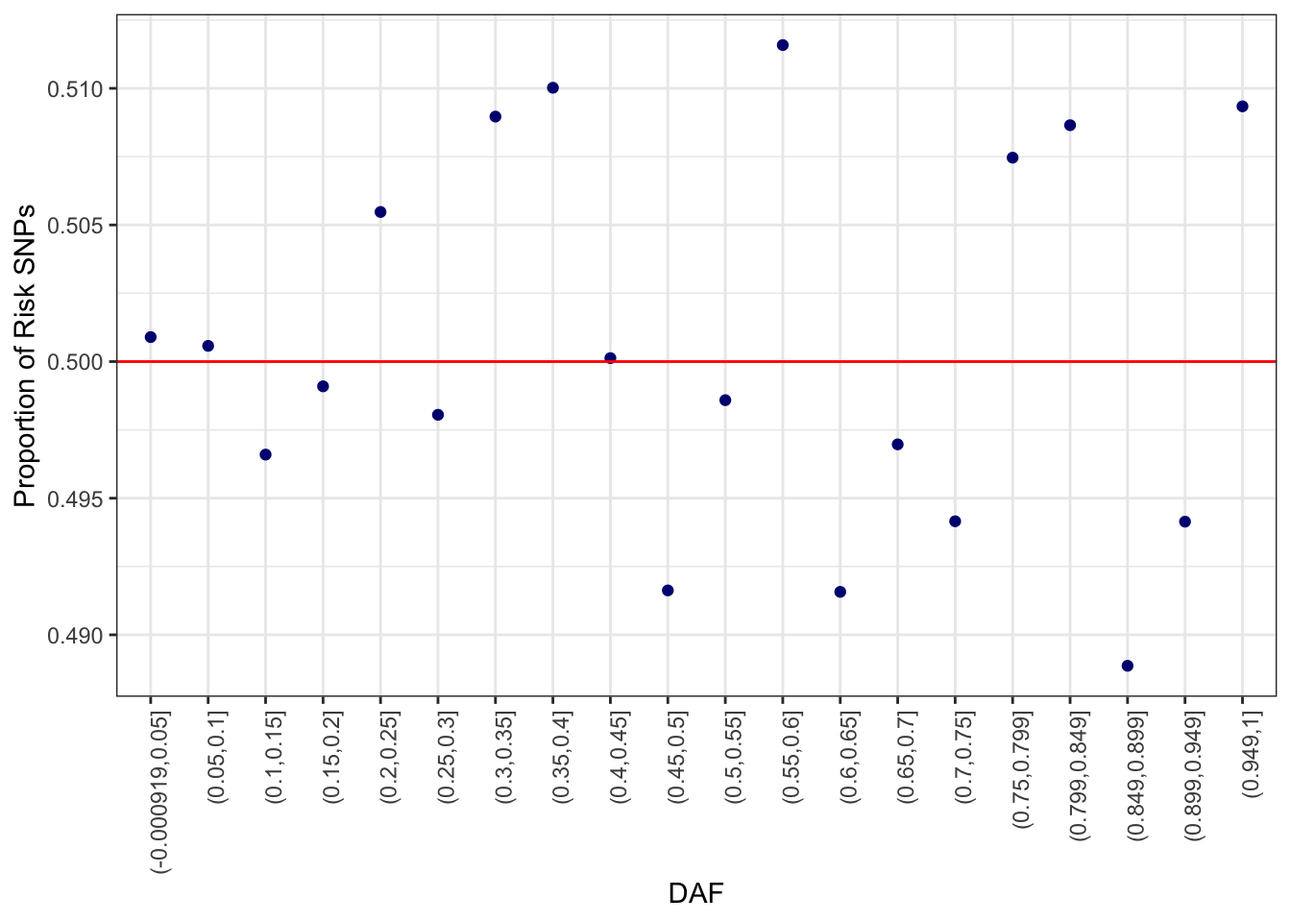
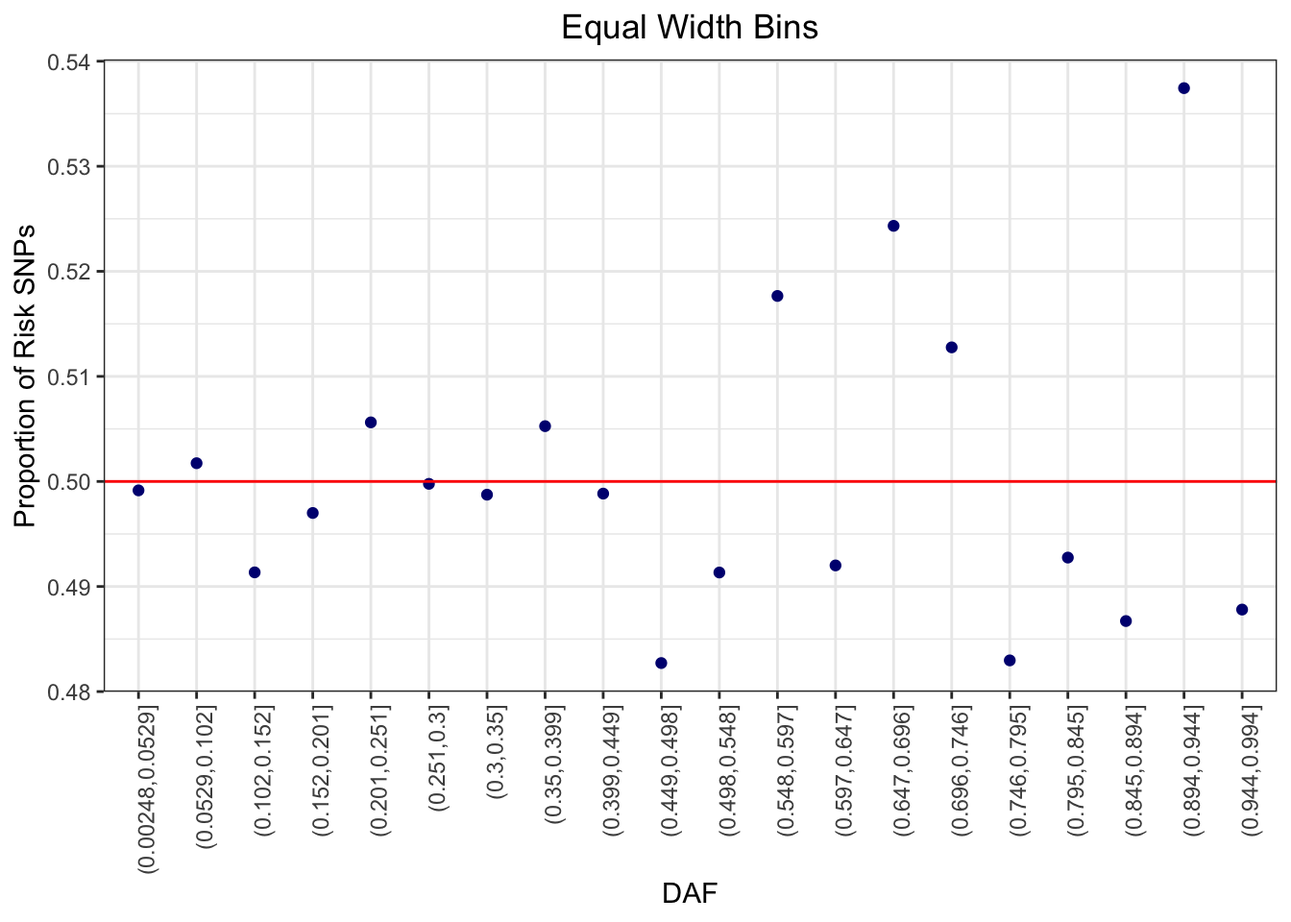
Build site.

diff --git a/docs/shift_GWAS_ATLAS.html b/docs/shift_GWAS_ATLAS.html
@@ -411,7 +411,7 @@ div.section {
 <div class="tab-content">
 <div id="summary" class="tab-pane fade in active">
 <p>
-<strong>Last updated:</strong> 2020-03-17
+<strong>Last updated:</strong> 2020-03-24
 </p>
 <p>
 <strong>Checks:</strong> <span class="glyphicon glyphicon-ok text-success" aria-hidden="true"></span> 7 <span class="glyphicon glyphicon-exclamation-sign text-danger" aria-hidden="true"></span> 0
@@ -502,10 +502,10 @@ This reproducible <a href="http://rmarkdown.rstudio.com">R Markdown</a> analysis
 <div class="panel panel-default">
 <div class="panel-heading">
 <p class="panel-title">
-<a data-toggle="collapse" data-parent="#workflowr-checks" href="#strongRepositoryversionstrongahrefhttpsgithubcomjgblancinfermutationalbiastreee35f16114a4fee2d37bf931b090435754f4fdc82targetblanke35f161a"> <span class="glyphicon glyphicon-ok text-success" aria-hidden="true"></span> <strong>Repository version:</strong> <a href="https://github.com/jgblanc/infer_mutational_bias/tree/e35f16114a4fee2d37bf931b090435754f4fdc82" target="_blank">e35f161</a> </a>
+<a data-toggle="collapse" data-parent="#workflowr-checks" href="#strongRepositoryversionstrongahrefhttpsgithubcomjgblancinfermutationalbiastree18252e2939632b33e31cedbcc25ab5b1fef27020targetblank18252e2a"> <span class="glyphicon glyphicon-ok text-success" aria-hidden="true"></span> <strong>Repository version:</strong> <a href="https://github.com/jgblanc/infer_mutational_bias/tree/18252e2939632b33e31cedbcc25ab5b1fef27020" target="_blank">18252e2</a> </a>
 </p>
 </div>
[2 lines of base64/hex data omitted]
 <div class="panel-body">
 <p>
 Great! You are using Git for version control. Tracking code development and connecting the code version to the results is critical for reproducibility. The version displayed above was the version of the Git repository at the time these results were generated. <br><br> Note that you need to be careful to ensure that all relevant files for the analysis have been committed to Git prior to generating the results (you can use <code>wflow_publish</code> or <code>wflow_git_commit</code>). workflowr only checks the R Markdown file, but you know if there are other scripts or data files that it depends on. Below is the status of the Git repository when the results were generated:
@@ -523,9 +523,11 @@ Ignored files:
     Ignored:    analysis/.DS_Store
     Ignored:    code/.DS_Store
     Ignored:    code/parse_gwas_atlas/.DS_Store
+    Ignored:    code/parse_gwas_atlas_nonsig/.DS_Store
     Ignored:    data/.ipynb_checkpoints/
     Ignored:    data/1000G_20101123_v3_GIANT_chr1_23_minimacnamesifnotRS_CEU_MAF0.01/
     Ignored:    data/47UKBB/
+    Ignored:    data/ALL.chr1.phase3_shapeit2_mvncall_integrated_v5a.20130502.genotypes.EUR/
     Ignored:    data/BBJ/
     Ignored:    data/GWAS_ATLAS/
     Ignored:    data/STRAT/
@@ -534,43 +536,53 @@ Ignored files:
     Ignored:    output/47UKBB/
     Ignored:    output/BBJ/.DS_Store
     Ignored:    output/GWAS_ATLAS/
+    Ignored:    output/STRAT/
     Ignored:    output/UKBB/.DS_Store
 
 Untracked files:
-    Untracked:  .snakemake/log/2020-03-11T114908.022208.snakemake.log
-    Untracked:  .snakemake/log/2020-03-11T115004.543749.snakemake.log
-    Untracked:  .snakemake/log/2020-03-11T115045.014259.snakemake.log
-    Untracked:  .snakemake/log/2020-03-11T115120.836023.snakemake.log
-    Untracked:  .snakemake/log/2020-03-11T123057.230731.snakemake.log
-    Untracked:  .snakemake/log/2020-03-11T124622.063261.snakemake.log
-    Untracked:  .snakemake/log/2020-03-11T124715.183775.snakemake.log
-    Untracked:  .snakemake/log/2020-03-11T151827.557487.snakemake.log
-    Untracked:  .snakemake/log/2020-03-11T152044.800420.snakemake.log
-    Untracked:  .snakemake/log/2020-03-11T171932.515213.snakemake.log
-    Untracked:  .snakemake/log/2020-03-12T102256.287616.snakemake.log
-    Untracked:  .snakemake/log/2020-03-12T152017.563261.snakemake.log
-    Untracked:  .snakemake/log/2020-03-12T154242.122029.snakemake.log
-    Untracked:  .snakemake/log/2020-03-13T095001.578641.snakemake.log
-    Untracked:  .snakemake/log/2020-03-13T095007.398442.snakemake.log
-    Untracked:  .snakemake/log/2020-03-13T095013.107325.snakemake.log
-    Untracked:  .snakemake/log/2020-03-16T164823.352425.snakemake.log
-    Untracked:  .snakemake/log/2020-03-17T110740.420893.snakemake.log
-    Untracked:  .snakemake/log/2020-03-17T110744.101921.snakemake.log
-    Untracked:  .snakemake/log/2020-03-17T110825.308345.snakemake.log
-    Untracked:  .snakemake/metadata/b3V0cHV0L0dXQVNfQVRMQVMvZXZvX2FkZGVkL0NBRF8zOTI1XzAuOTVfZXZvLnR4dA==
-    Untracked:  .snakemake/metadata/b3V0cHV0L0dXQVNfQVRMQVMvZXZvX2FkZGVkL1QyRF80MDg1XzAuOTVfZXZvLnR4dA==
-    Untracked:  .snakemake/metadata/b3V0cHV0L0dXQVNfQVRMQVMvZXZvX2FkZGVkL1VDXzIwMzBfMC45NV9ldm8udHh0
-    Untracked:  .snakemake/metadata/b3V0cHV0L0dXQVNfQVRMQVMvZXZvX2FkZGVkL3NjaGl6b3BocmVuaWFfMzk4Ml8wLjk1X2V2by50eHQ=
-    Untracked:  .snakemake/metadata/b3V0cHV0L0dXQVNfQVRMQVMvcGFyc2VkX2d3YXMvQ0FEXzM5MjVfMC45NV9wYXJzZWQudHh0
-    Untracked:  .snakemake/metadata/b3V0cHV0L0dXQVNfQVRMQVMvcGFyc2VkX2d3YXMvVDJEXzQwODVfMC45NV9wYXJzZWQudHh0
-    Untracked:  .snakemake/metadata/b3V0cHV0L0dXQVNfQVRMQVMvcGFyc2VkX2d3YXMvVUNfMjAzMF8wLjk1X3BhcnNlZC50eHQ=
-    Untracked:  .snakemake/metadata/b3V0cHV0L0dXQVNfQVRMQVMvcGFyc2VkX2d3YXMvc2NoaXpvcGhyZW5pYV8zOTgyXzAuOTVfcGFyc2VkLnR4dA==
-    Untracked:  .snakemake/scripts/tmpbo7_6d_1.get_evolutionary_information_from_1kg_GWAS_ATLAS.py
-    Untracked:  code/parse_gwas_atlas_nonsig/
+    Untracked:  .snakemake/log/2020-03-23T164719.122778.snakemake.log
+    Untracked:  .snakemake/log/2020-03-23T164841.172341.snakemake.log
+    Untracked:  .snakemake/log/2020-03-23T165052.235224.snakemake.log
+    Untracked:  .snakemake/log/2020-03-23T173201.671245.snakemake.log
+    Untracked:  .snakemake/log/2020-03-23T190924.512591.snakemake.log
+    Untracked:  .snakemake/log/2020-03-23T194341.864454.snakemake.log
+    Untracked:  .snakemake/log/2020-03-24T091905.302205.snakemake.log
+    Untracked:  .snakemake/log/2020-03-24T092201.882781.snakemake.log
+    Untracked:  .snakemake/log/2020-03-24T092404.171989.snakemake.log
+    Untracked:  .snakemake/log/2020-03-24T092428.802361.snakemake.log
+    Untracked:  .snakemake/log/2020-03-24T093017.568005.snakemake.log
+    Untracked:  .snakemake/log/2020-03-24T093241.050903.snakemake.log
+    Untracked:  .snakemake/log/2020-03-24T093254.384314.snakemake.log
+    Untracked:  .snakemake/log/2020-03-24T093258.136407.snakemake.log
+    Untracked:  .snakemake/log/2020-03-24T093449.542770.snakemake.log
+    Untracked:  .snakemake/log/2020-03-24T111104.620227.snakemake.log
+    Untracked:  .snakemake/log/2020-03-24T111633.863041.snakemake.log
+    Untracked:  .snakemake/log/2020-03-24T111701.823844.snakemake.log
+    Untracked:  .snakemake/metadata/b3V0cHV0L0dXQVNfQVRMQVMvZXZvX2FkZGVkL0NBRF8zOTI1LTAuMDAwMV9ldm8udHh0
+    Untracked:  .snakemake/metadata/b3V0cHV0L0dXQVNfQVRMQVMvZXZvX2FkZGVkL1QyRF80MDg1LTAuMDAwMV9ldm8udHh0
+    Untracked:  .snakemake/metadata/b3V0cHV0L0dXQVNfQVRMQVMvZXZvX2FkZGVkL1VDXzIwMzAtMC4wMDAxX2V2by50eHQ=
+    Untracked:  .snakemake/metadata/b3V0cHV0L0dXQVNfQVRMQVMvZXZvX2FkZGVkL2hlaWdodF8xNDItMC4wMDAxX2V2by50eHQ=
+    Untracked:  .snakemake/metadata/b3V0cHV0L0dXQVNfQVRMQVMvZXZvX2FkZGVkL3NjaGl6b3BocmVuaWFfMzk4Mi0wLjAwMDFfZXZvLnR4dA==
+    Untracked:  .snakemake/metadata/b3V0cHV0L0dXQVNfQVRMQVMvcGFyc2VkX2d3YXMvQ0FEXzM5MjVfMC4wMDAxX3BhcnNlZC50eHQ=
+    Untracked:  .snakemake/metadata/b3V0cHV0L0dXQVNfQVRMQVMvcGFyc2VkX2d3YXMvVDJEXzQwODVfMC4wMDAxX3BhcnNlZC50eHQ=
+    Untracked:  .snakemake/metadata/b3V0cHV0L0dXQVNfQVRMQVMvcGFyc2VkX2d3YXMvVUNfMjAzMF8wLjAwMDFfcGFyc2VkLnR4dA==
+    Untracked:  .snakemake/metadata/b3V0cHV0L0dXQVNfQVRMQVMvcGFyc2VkX2d3YXMvaGVpZ2h0XzE0Ml8wLjAwMDFfcGFyc2VkLnR4dA==
+    Untracked:  .snakemake/metadata/b3V0cHV0L0dXQVNfQVRMQVMvcGFyc2VkX2d3YXMvc2NoaXpvcGhyZW5pYV8zOTgyXzAuMDAwMV9wYXJzZWQudHh0
+    Untracked:  .snakemake/metadata/b3V0cHV0L0dXQVNfQVRMQVMvcHJ1bmVkL0NBRF8zOTI1XzAuMDAwMS5wcnVuZS5pbg==
+    Untracked:  .snakemake/metadata/b3V0cHV0L0dXQVNfQVRMQVMvcHJ1bmVkL1QyRF80MDg1XzAuMDAwMS5wcnVuZS5pbg==
+    Untracked:  .snakemake/metadata/b3V0cHV0L0dXQVNfQVRMQVMvcHJ1bmVkL1VDXzIwMzBfMC4wMDAxLnBydW5lLmlu
+    Untracked:  .snakemake/metadata/b3V0cHV0L0dXQVNfQVRMQVMvcHJ1bmVkL2hlaWdodF8xNDJfMC4wMDAxLnBydW5lLmlu
+    Untracked:  .snakemake/metadata/b3V0cHV0L0dXQVNfQVRMQVMvcHJ1bmVkL3NjaGl6b3BocmVuaWFfMzk4Ml8wLjAwMDEucHJ1bmUuaW4=
+    Untracked:  .snakemake/scripts/tmp7997be50.get_evolutionary_information_from_1kg_GWAS_ATLAS.py
+    Untracked:  code/parse_gwas_atlas_nonsig/height_142.R
+    Untracked:  code/rsID_Pos_conversion.py
+    Untracked:  code/rsID_Pos_conversion.py~
 
 Unstaged changes:
-    Modified:   analysis/Stratification.Rmd
-    Modified:   code/parse_gwas_atlas/schizophrenia_3982.R
+    Modified:   code/parse_gwas_atlas_nonsig/CAD_3925.R
+    Modified:   code/parse_gwas_atlas_nonsig/T2D_4085.R
+    Modified:   code/parse_gwas_atlas_nonsig/UC_2030.R
+    Modified:   code/parse_gwas_atlas_nonsig/schizophrenia_3982.R
     Modified:   snakefile
     Modified:   snakefile~
 
@@ -611,6 +623,57 @@ Message
 </tr>
 </thead>
 <tbody>
+<tr>
+<td>
+Rmd
+</td>
+<td>
+<a href="https://github.com/jgblanc/infer_mutational_bias/blob/18252e2939632b33e31cedbcc25ab5b1fef27020/analysis/shift_GWAS_ATLAS.Rmd" target="_blank">18252e2</a>
+</td>
+<td>
+jgblanc
+</td>
+<td>
+2020-03-24
+</td>
+<td>
+added GIANT
+</td>
+</tr>
+<tr>
+<td>
+Rmd
+</td>
+<td>
+<a href="https://github.com/jgblanc/infer_mutational_bias/blob/d6eca3fee20c42293173e5f0b30cd65ee6f2b126/analysis/shift_GWAS_ATLAS.Rmd" target="_blank">d6eca3f</a>
+</td>
+<td>
+jgblanc
+</td>
+<td>
+2020-03-23
+</td>
+<td>
+added LD pruning
+</td>
+</tr>
+<tr>
+<td>
+html
+</td>
+<td>
+<a href="https://rawcdn.githack.com/jgblanc/infer_mutational_bias/9f469922912eddda8397953f696521887190e2c7/docs/shift_GWAS_ATLAS.html" target="_blank">9f46992</a>
+</td>
+<td>
+jgblanc
+</td>
+<td>
+2020-03-17
+</td>
+<td>
+Build site.
+</td>
+</tr>
 <tr>
 <td>
 Rmd
@@ -686,18 +749,22 @@ looked for shift
 </div>
 </div>
 </div>
-<p>Model with no PC adjustment:</p>
-<p><span class="math display">\[E[\hat{\beta}] = \beta_l + \beta_E cov(\vec{E}, \vec{g})\]</span></p>
-<p>Model with using residuls after regressing out first PC and <span class="math inline">\(\vec{U_1} = \vec{E}\)</span>:</p>
-<p><span class="math display">\[E[\beta_l] = \beta_l(1 - r^2(g_l,\vec{U_1}))\]</span></p>
-<p>Schizophrenia</p>
-<pre class="r"><code>schizophrenia &lt;- fread(&quot;../output/GWAS_ATLAS/evo_added/schizophrenia_3982_0.95_evo.txt&quot;)
+<p>Truth: <span class="math display">\[\vec{Y} = \mu + \beta_l\vec{g_l} + \beta_E\vec{E} + \vec{e}, \space \space \space \vec{e} \sim N(0, V_E)\]</span></p>
+<p>Model with no PC adjustment: <span class="math display">\[\vec{Y} = \mu + \beta_l\vec{g_l} + \vec{e}\]</span></p>
+<p>Expected <span class="math inline">\(\hat{\beta}\)</span>: <span class="math display">\[E[\hat{\beta}] = \beta_l + \beta_E cov(\vec{E}, \vec{g})\]</span></p>
+<p>Model including PC1: <span class="math display">\[\vec{Y} = \mu + \beta_l\vec{g_l} + \beta_{\vec{U_1}}\vec{U_1}+ \vec{e}\]</span></p>
+<p>Expected <span class="math inline">\(\hat{\beta}\)</span> assuming that <span class="math inline">\(\vec{U_1} = \vec{E}\)</span>: <span class="math display">\[E[\beta_l] = \beta_l(1 - r^2(g_l,\vec{U_1}))\]</span></p>
+<div id="schizophrenia" class="section level3">
+<h3>Schizophrenia</h3>
+<pre class="r"><code>schizophrenia &lt;- fread(&quot;../output/GWAS_ATLAS/evo_added/schizophrenia_3982-0.0001_evo.txt&quot;)
 colnames(schizophrenia) &lt;- c(colnames(schizophrenia)[1:13], &quot;EA_Derived&quot;, &quot;DAF&quot;, &quot;Risk_Derived&quot;)
+pruned &lt;- fread(&quot;../output/GWAS_ATLAS/pruned/schizophrenia_3982_0.0001.prune.in&quot;, header = F)
+schizophrenia &lt;- left_join(pruned, schizophrenia, by = c(&quot;V1&quot; = &quot;SNP&quot;))
 
-dat &lt;- schizophrenia %&gt;% select(DAF, Risk_Derived, OR) %&gt;% na.omit() %&gt;% filter(abs(log(OR)) &lt;= 0.0005)
+dat &lt;- schizophrenia %&gt;% select(DAF, Risk_Derived, OR) %&gt;% na.omit() 
 dat$bin &lt;- cut(dat$DAF, 20)
 df &lt;- dat %&gt;% group_by(bin) %&gt;%summarise(num_snps = n(),prop_risk = (sum(Risk_Derived == &#39;T&#39;)/n()))
-ggplot(df, aes(x=bin, y=prop_risk)) + geom_point(col = &quot;navy&quot;) + geom_hline(yintercept = 0.5, col = &quot;red&quot;) + theme_bw() + xlab(&quot;DAF&quot;) + ylab(&quot;Proportion of Risk SNPs&quot;) + theme(axis.text.x = element_text(angle = 90, hjust = 1))</code></pre>
+ggplot(df, aes(x=bin, y=prop_risk)) + geom_point(col = &quot;navy&quot;) + geom_hline(yintercept = 0.5, col = &quot;red&quot;) + theme_bw() + xlab(&quot;DAF&quot;) + ylab(&quot;Proportion of Risk SNPs&quot;) + theme(axis.text.x = element_text(angle = 90, hjust = 1)) + ggtitle(&quot;Equal Width Bins&quot;) + theme(plot.title = element_text(hjust = 0.5))</code></pre>
 <p><img src="figure/shift_GWAS_ATLAS.Rmd/unnamed-chunk-1-1.png" width="672" style="display: block; margin: auto;" /></p>
 <p>
 <button type="button" class="btn btn-default btn-xs btn-workflowr btn-workflowr-fig" data-toggle="collapse" data-target="#fig-unnamed-chunk-1-1">
@@ -736,16 +803,26 @@ jgblanc
 </table>
 </div>
 </div>
-<pre class="r"><code>sum(dat$Risk_Derived == &quot;T&quot;)/sum(dat$Risk_Derived == &quot;T&quot; | dat$Risk_Derived == &quot;F&quot;)</code></pre>
-<pre><code>[1] 0.4898226</code></pre>
-<p>CAD</p>
-<pre class="r"><code>CAD &lt;- fread(&quot;../output/GWAS_ATLAS/evo_added/CAD_3925_0.95_evo.txt&quot;)
+<pre class="r"><code>dat2 &lt;- schizophrenia %&gt;% select(DAF, Risk_Derived, OR) %&gt;% na.omit() 
+dat2$bin &lt;- cut2(dat$DAF, m=nrow(dat2)/20)
+df2 &lt;- dat2 %&gt;% group_by(bin) %&gt;%summarise(num_snps = n(),prop_risk = (sum(Risk_Derived == &#39;T&#39;)/n()))
+ggplot(df2, aes(x=bin, y=prop_risk)) + geom_point(col = &quot;navy&quot;) + geom_hline(yintercept = 0.5, col = &quot;red&quot;) + theme_bw() + xlab(&quot;DAF&quot;) + ylab(&quot;Proportion of Risk SNPs&quot;) + theme(axis.text.x = element_text(angle = 90, hjust = 1)) + ggtitle(&quot;Equal Number of SNPs per Bins&quot;) + theme(plot.title = element_text(hjust = 0.5))</code></pre>
+<p><img src="figure/shift_GWAS_ATLAS.Rmd/unnamed-chunk-1-2.png" width="672" style="display: block; margin: auto;" /></p>
+<pre class="r"><code># Totol Fraction of Risk Derived SNPs 
+sum(dat$Risk_Derived == &quot;T&quot;)/sum(dat$Risk_Derived == &quot;T&quot; | dat$Risk_Derived == &quot;F&quot;)</code></pre>
+<pre><code>[1] 0.4547076</code></pre>
+</div>
+<div id="cad" class="section level3">
+<h3>CAD</h3>
+<pre class="r"><code>CAD &lt;- fread(&quot;../output/GWAS_ATLAS/evo_added/CAD_3925-0.0001_evo.txt&quot;)
 colnames(CAD) &lt;- c(colnames(CAD)[1:13], &quot;EA_Derived&quot;, &quot;DAF&quot;, &quot;Risk_Derived&quot;)
+pruned &lt;- fread(&quot;../output/GWAS_ATLAS/pruned/CAD_3925_0.0001.prune.in&quot;, header = F)
+CAD &lt;- left_join(pruned, CAD, by = c(&quot;V1&quot; = &quot;SNP&quot;))
 
-dat &lt;- CAD %&gt;% select(DAF, Risk_Derived, `Log(OR)`) %&gt;% na.omit() %&gt;% filter(abs(`Log(OR)`) &lt;= 0.0005)
+dat &lt;- CAD %&gt;% select(DAF, Risk_Derived, `Log(OR)`) %&gt;% na.omit()
 dat$bin &lt;- cut(dat$DAF, 20)
 df &lt;- dat %&gt;% group_by(bin) %&gt;%summarise(prop_risk = (sum(Risk_Derived == &#39;T&#39;)/n()))
-ggplot(df, aes(x=bin, y=prop_risk)) + geom_point(col = &quot;navy&quot;) + geom_hline(yintercept = 0.5, col = &quot;red&quot;) + theme_bw() + xlab(&quot;DAF&quot;) + ylab(&quot;Proportion of Risk SNPs&quot;) + theme(axis.text.x = element_text(angle = 90, hjust = 1))</code></pre>
+ggplot(df, aes(x=bin, y=prop_risk)) + geom_point(col = &quot;navy&quot;) + geom_hline(yintercept = 0.5, col = &quot;red&quot;) + theme_bw() + xlab(&quot;DAF&quot;) + ylab(&quot;Proportion of Risk SNPs&quot;) + theme(axis.text.x = element_text(angle = 90, hjust = 1)) + ggtitle(&quot;Equal Width Bins&quot;) + theme(plot.title = element_text(hjust = 0.5))</code></pre>
 <p><img src="figure/shift_GWAS_ATLAS.Rmd/unnamed-chunk-2-1.png" width="672" style="display: block; margin: auto;" /></p>
 <p>
 <button type="button" class="btn btn-default btn-xs btn-workflowr btn-workflowr-fig" data-toggle="collapse" data-target="#fig-unnamed-chunk-2-1">
@@ -784,16 +861,25 @@ jgblanc
 </table>
 </div>
 </div>
+<pre class="r"><code>dat2 &lt;- CAD %&gt;% select(DAF, Risk_Derived, `Log(OR)`) %&gt;% na.omit() 
+dat2$bin &lt;- cut2(dat$DAF, m=nrow(dat2)/20)
+df2 &lt;- dat2 %&gt;% group_by(bin) %&gt;%summarise(num_snps = n(),prop_risk = (sum(Risk_Derived == &#39;T&#39;)/n()))
+ggplot(df2, aes(x=bin, y=prop_risk)) + geom_point(col = &quot;navy&quot;) + geom_hline(yintercept = 0.5, col = &quot;red&quot;) + theme_bw() + xlab(&quot;DAF&quot;) + ylab(&quot;Proportion of Risk SNPs&quot;) + theme(axis.text.x = element_text(angle = 90, hjust = 1)) + ggtitle(&quot;Equal Number of SNPs per Bins&quot;) + theme(plot.title = element_text(hjust = 0.5))</code></pre>
+<p><img src="figure/shift_GWAS_ATLAS.Rmd/unnamed-chunk-2-2.png" width="672" style="display: block; margin: auto;" /></p>
 <pre class="r"><code>sum(dat$Risk_Derived == &quot;T&quot;)/sum(dat$Risk_Derived == &quot;T&quot; | dat$Risk_Derived == &quot;F&quot;)</code></pre>
-<pre><code>[1] 0.5007357</code></pre>
-<p>UC</p>
-<pre class="r"><code>UC &lt;- fread(&quot;../output/GWAS_ATLAS/evo_added/UC_2030_0.95_evo.txt&quot;)
+<pre><code>[1] 0.4995684</code></pre>
+</div>
+<div id="uc" class="section level3">
+<h3>UC</h3>
+<pre class="r"><code>UC &lt;- fread(&quot;../output/GWAS_ATLAS/evo_added/UC_2030-0.0001_evo.txt&quot;)
 colnames(UC) &lt;- c(colnames(UC)[1:13], &quot;EA_Derived&quot;, &quot;DAF&quot;, &quot;Risk_Derived&quot;)
+pruned &lt;- fread(&quot;../output/GWAS_ATLAS/pruned/UC_2030_0.0001.prune.in&quot;, header = F)
+UC &lt;- left_join(pruned, UC, by = c(&quot;V1&quot; = &quot;SNP&quot;))
 
 dat &lt;- UC %&gt;% select(DAF, Risk_Derived, BETA) %&gt;% na.omit() %&gt;% filter(abs(BETA) &lt;= 0.0005)
 dat$bin &lt;- cut(dat$DAF, 20)
 df &lt;- dat %&gt;% group_by(bin) %&gt;%summarise(prop_risk = (sum(Risk_Derived == &#39;T&#39;)/n()))
-ggplot(df, aes(x=bin, y=prop_risk)) + geom_point(col = &quot;navy&quot;) + geom_hline(yintercept = 0.5, col = &quot;red&quot;) + theme_bw() + xlab(&quot;DAF&quot;) + ylab(&quot;Proportion of Risk SNPs&quot;) + theme(axis.text.x = element_text(angle = 90, hjust = 1))</code></pre>
+ggplot(df, aes(x=bin, y=prop_risk)) + geom_point(col = &quot;navy&quot;) + geom_hline(yintercept = 0.5, col = &quot;red&quot;) + theme_bw() + xlab(&quot;DAF&quot;) + ylab(&quot;Proportion of Risk SNPs&quot;) + theme(axis.text.x = element_text(angle = 90, hjust = 1)) + ggtitle(&quot;Equal Width Bins&quot;) + theme(plot.title = element_text(hjust = 0.5))</code></pre>
 <p><img src="figure/shift_GWAS_ATLAS.Rmd/unnamed-chunk-3-1.png" width="672" style="display: block; margin: auto;" /></p>
 <p>
 <button type="button" class="btn btn-default btn-xs btn-workflowr btn-workflowr-fig" data-toggle="collapse" data-target="#fig-unnamed-chunk-3-1">
@@ -832,16 +918,25 @@ jgblanc
 </table>
 </div>
 </div>
+<pre class="r"><code>dat2 &lt;- UC %&gt;% select(DAF, Risk_Derived, BETA) %&gt;% na.omit() 
+dat2$bin &lt;- cut2(dat$DAF, m=nrow(dat2)/20)
+df2 &lt;- dat2 %&gt;% group_by(bin) %&gt;%summarise(num_snps = n(),prop_risk = (sum(Risk_Derived == &#39;T&#39;)/n()))
+ggplot(df2, aes(x=bin, y=prop_risk)) + geom_point(col = &quot;navy&quot;) + geom_hline(yintercept = 0.5, col = &quot;red&quot;) + theme_bw() + xlab(&quot;DAF&quot;) + ylab(&quot;Proportion of Risk SNPs&quot;) + theme(axis.text.x = element_text(angle = 90, hjust = 1)) + ggtitle(&quot;Equal Number of SNPs per Bins&quot;) + theme(plot.title = element_text(hjust = 0.5))</code></pre>
+<p><img src="figure/shift_GWAS_ATLAS.Rmd/unnamed-chunk-3-2.png" width="672" style="display: block; margin: auto;" /></p>
 <pre class="r"><code>sum(dat$Risk_Derived == &quot;T&quot;)/sum(dat$Risk_Derived == &quot;T&quot; | dat$Risk_Derived == &quot;F&quot;)</code></pre>
-<pre><code>[1] 0.4913605</code></pre>
-<p>T2D</p>
-<pre class="r"><code>T2D &lt;- fread(&quot;../output/GWAS_ATLAS/evo_added/T2D_4085_0.95_evo.txt&quot;)
+<pre><code>[1] 0.4768614</code></pre>
+</div>
+<div id="t2d" class="section level3">
+<h3>T2D</h3>
+<pre class="r"><code>T2D &lt;- fread(&quot;../output/GWAS_ATLAS/evo_added/T2D_4085-0.0001_evo.txt&quot;)
 colnames(T2D) &lt;- c(colnames(T2D)[1:13], &quot;EA_Derived&quot;, &quot;DAF&quot;, &quot;Risk_Derived&quot;)
+pruned &lt;- fread(&quot;../output/GWAS_ATLAS/pruned/T2D_4085_0.0001.prune.in&quot;, header = F)
+T2D &lt;- left_join(pruned, T2D, by = c(&quot;V1&quot; = &quot;SNP&quot;))
 
 dat &lt;- T2D %&gt;% select(DAF, Risk_Derived, BETA) %&gt;% na.omit() %&gt;% filter(abs(BETA) &lt;= 0.0001)
 dat$bin &lt;- cut(dat$DAF, 20)
-df &lt;- dat %&gt;% group_by(bin) %&gt;%summarise(prop_risk = (sum(Risk_Derived == &#39;T&#39;)/n()))
-ggplot(df, aes(x=bin, y=prop_risk)) + geom_point(col = &quot;navy&quot;) + geom_hline(yintercept = 0.5, col = &quot;red&quot;) + theme_bw() + xlab(&quot;DAF&quot;) + ylab(&quot;Proportion of Risk SNPs&quot;) + theme(axis.text.x = element_text(angle = 90, hjust = 1))</code></pre>
+df &lt;- dat %&gt;% group_by(bin) %&gt;%summarise(prop_risk = (sum(Risk_Derived == &#39;T&#39;)/n()), )
+ggplot(df, aes(x=bin, y=prop_risk)) + geom_point(col = &quot;navy&quot;) + geom_hline(yintercept = 0.5, col = &quot;red&quot;) + theme_bw() + xlab(&quot;DAF&quot;) + ylab(&quot;Proportion of Risk SNPs&quot;) + theme(axis.text.x = element_text(angle = 90, hjust = 1)) + ggtitle(&quot;Equal Width Bins&quot;) + theme(plot.title = element_text(hjust = 0.5))</code></pre>
 <p><img src="figure/shift_GWAS_ATLAS.Rmd/unnamed-chunk-4-1.png" width="672" style="display: block; margin: auto;" /></p>
 <p>
 <button type="button" class="btn btn-default btn-xs btn-workflowr btn-workflowr-fig" data-toggle="collapse" data-target="#fig-unnamed-chunk-4-1">
@@ -880,9 +975,33 @@ jgblanc
 </table>
 </div>
 </div>
+<pre class="r"><code>dat2 &lt;- T2D %&gt;% select(DAF, Risk_Derived, BETA)  %&gt;% na.omit() 
+dat2$bin &lt;- cut2(dat$DAF, m=nrow(dat2)/20)
+df2 &lt;- dat2 %&gt;% group_by(bin) %&gt;%summarise(num_snps = n(),prop_risk = (sum(Risk_Derived == &#39;T&#39;)/n()))
+ggplot(df2, aes(x=bin, y=prop_risk)) + geom_point(col = &quot;navy&quot;) + geom_hline(yintercept = 0.5, col = &quot;red&quot;) + theme_bw() + xlab(&quot;DAF&quot;) + ylab(&quot;Proportion of Risk SNPs&quot;) + theme(axis.text.x = element_text(angle = 90, hjust = 1)) + ggtitle(&quot;Equal Number of SNPs per Bins&quot;) + theme(plot.title = element_text(hjust = 0.5))</code></pre>
+<p><img src="figure/shift_GWAS_ATLAS.Rmd/unnamed-chunk-4-2.png" width="672" style="display: block; margin: auto;" /></p>
 <pre class="r"><code>sum(dat$Risk_Derived == &quot;T&quot;)/sum(dat$Risk_Derived == &quot;T&quot; | dat$Risk_Derived == &quot;F&quot;)</code></pre>
-<pre><code>[1] 0.5173649</code></pre>
-<pre class="r"><code>#ggplot(data = dat, aes(x=DAF, y=abs(BETA), col = Risk_Derived))+ geom_point()</code></pre>
+<pre><code>[1] 0.5190252</code></pre>
+</div>
+<div id="giant-height" class="section level3">
+<h3>GIANT Height</h3>
+<pre class="r"><code>height &lt;- fread(&quot;../output/GWAS_ATLAS/evo_added/height_142-0.0001_evo.txt&quot;)
+colnames(height) &lt;- c(colnames(height)[1:13], &quot;EA_Derived&quot;, &quot;DAF&quot;, &quot;Risk_Derived&quot;)
+pruned &lt;- fread(&quot;../output/GWAS_ATLAS/pruned/height_142_0.0001.prune.in&quot;, header = F)
+height &lt;- left_join(pruned, height, by = c(&quot;V1&quot; = &quot;SNP&quot;))
+
+dat &lt;- height %&gt;% select(DAF, Risk_Derived, BETA) %&gt;% na.omit() %&gt;% filter(abs(BETA) &lt;= 0.0001)
+dat$bin &lt;- cut(dat$DAF, 20)
+df &lt;- dat %&gt;% group_by(bin) %&gt;%summarise(prop_risk = (sum(Risk_Derived == &#39;T&#39;)/n()), )
+ggplot(df, aes(x=bin, y=prop_risk)) + geom_point(col = &quot;navy&quot;) + geom_hline(yintercept = 0.5, col = &quot;red&quot;) + theme_bw() + xlab(&quot;DAF&quot;) + ylab(&quot;Proportion of Risk SNPs&quot;) + theme(axis.text.x = element_text(angle = 90, hjust = 1)) + ggtitle(&quot;Equal Width Bins&quot;) + theme(plot.title = element_text(hjust = 0.5))</code></pre>
+<p><img src="figure/shift_GWAS_ATLAS.Rmd/unnamed-chunk-5-1.png" width="672" style="display: block; margin: auto;" /></p>
+<pre class="r"><code>dat2 &lt;- height %&gt;% select(DAF, Risk_Derived, BETA)  %&gt;% na.omit() 
+dat2$bin &lt;- cut2(dat$DAF, m=nrow(dat2)/20)
+df2 &lt;- dat2 %&gt;% group_by(bin) %&gt;%summarise(num_snps = n(),prop_risk = (sum(Risk_Derived == &#39;T&#39;)/n()))
+ggplot(df2, aes(x=bin, y=prop_risk)) + geom_point(col = &quot;navy&quot;) + geom_hline(yintercept = 0.5, col = &quot;red&quot;) + theme_bw() + xlab(&quot;DAF&quot;) + ylab(&quot;Proportion of Risk SNPs&quot;) + theme(axis.text.x = element_text(angle = 90, hjust = 1)) + ggtitle(&quot;Equal Number of SNPs per Bins&quot;) + theme(plot.title = element_text(hjust = 0.5))</code></pre>
+<p><img src="figure/shift_GWAS_ATLAS.Rmd/unnamed-chunk-5-2.png" width="672" style="display: block; margin: auto;" /></p>
+<pre class="r"><code>sum(dat$Risk_Derived == &quot;T&quot;)/sum(dat$Risk_Derived == &quot;T&quot; | dat$Risk_Derived == &quot;F&quot;)</code></pre>
+<pre><code>[1] 0.5086622</code></pre>
 <br>
 <p>
 <button type="button" class="btn btn-default btn-workflowr btn-workflowr-sessioninfo" data-toggle="collapse" data-target="#workflowr-sessioninfo" style="display: block;">
@@ -906,20 +1025,31 @@ attached base packages:
 [1] stats     graphics  grDevices utils     datasets  methods   base     
 
 other attached packages:
-[1] ggplot2_3.2.1     data.table_1.12.8 dplyr_0.8.4       workflowr_1.6.0  
+[1] Hmisc_4.3-1       Formula_1.2-3     survival_3.1-8    lattice_0.20-38  
+[5] ggplot2_3.2.1     data.table_1.12.8 dplyr_0.8.4       workflowr_1.6.0  
 
 loaded via a namespace (and not attached):
- [1] Rcpp_1.0.3       pillar_1.4.3     compiler_3.6.2   later_1.0.0     
- [5] git2r_0.26.1     tools_3.6.2      digest_0.6.25    evaluate_0.14   
- [9] tibble_2.1.3     lifecycle_0.1.0  gtable_0.3.0     pkgconfig_2.0.3 
-[13] rlang_0.4.4      yaml_2.2.1       xfun_0.12        withr_2.1.2     
-[17] stringr_1.4.0    knitr_1.28       fs_1.3.1         vctrs_0.2.3     
-[21] rprojroot_1.3-2  grid_3.6.2       tidyselect_1.0.0 glue_1.3.1      
-[25] R6_2.4.1         rmarkdown_2.1    farver_2.0.3     purrr_0.3.3     
-[29] magrittr_1.5     whisker_0.4      backports_1.1.5  scales_1.1.0    
-[33] promises_1.1.0   htmltools_0.4.0  assertthat_0.2.1 colorspace_1.4-1
-[37] httpuv_1.5.2     labeling_0.3     stringi_1.4.6    lazyeval_0.2.2  
-[41] munsell_0.5.0    crayon_1.3.4    </code></pre>
+ [1] tidyselect_1.0.0    xfun_0.12           purrr_0.3.3        
+ [4] splines_3.6.2       vctrs_0.2.3         colorspace_1.4-1   
+ [7] htmltools_0.4.0     yaml_2.2.1          base64enc_0.1-3    
+[10] rlang_0.4.4         later_1.0.0         pillar_1.4.3       
+[13] foreign_0.8-72      glue_1.3.1          withr_2.1.2        
+[16] RColorBrewer_1.1-2  jpeg_0.1-8.1        lifecycle_0.1.0    
+[19] stringr_1.4.0       munsell_0.5.0       gtable_0.3.0       
+[22] htmlwidgets_1.5.1   evaluate_0.14       labeling_0.3       
+[25] latticeExtra_0.6-29 knitr_1.28          httpuv_1.5.2       
+[28] htmlTable_1.13.3    Rcpp_1.0.3          acepack_1.4.1      
+[31] promises_1.1.0      scales_1.1.0        backports_1.1.5    
+[34] checkmate_2.0.0     farver_2.0.3        fs_1.3.1           
+[37] gridExtra_2.3       png_0.1-7           digest_0.6.25      
+[40] stringi_1.4.6       grid_3.6.2          rprojroot_1.3-2    
+[43] tools_3.6.2         magrittr_1.5        lazyeval_0.2.2     
+[46] tibble_2.1.3        cluster_2.1.0       crayon_1.3.4       
+[49] whisker_0.4         pkgconfig_2.0.3     Matrix_1.2-18      
+[52] rstudioapi_0.11     assertthat_0.2.1    rmarkdown_2.1      
+[55] R6_2.4.1            rpart_4.1-15        nnet_7.3-12        
+[58] git2r_0.26.1        compiler_3.6.2     </code></pre>
+</div>
 </div>
 
 
